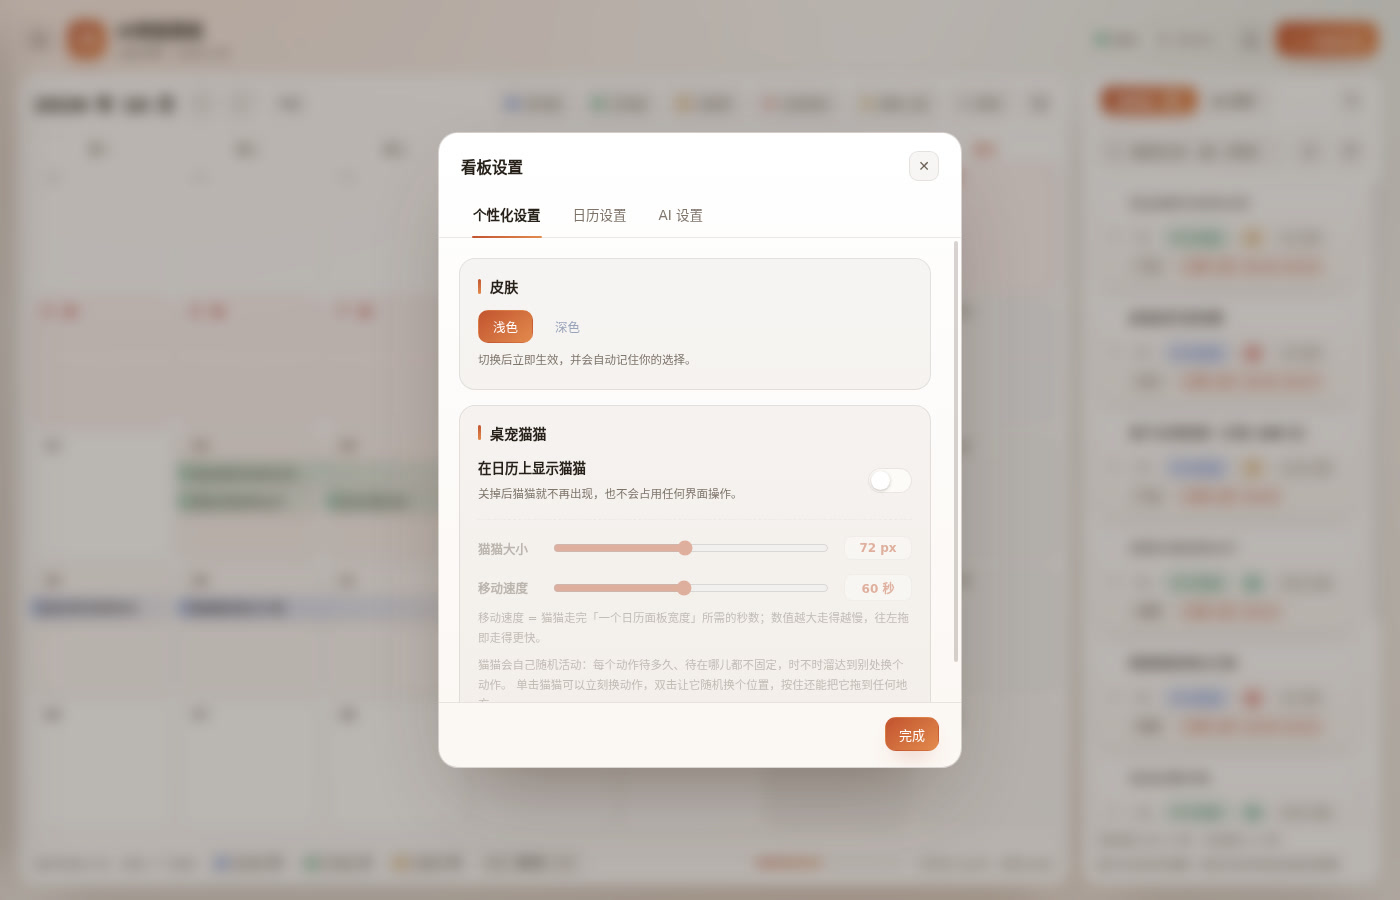
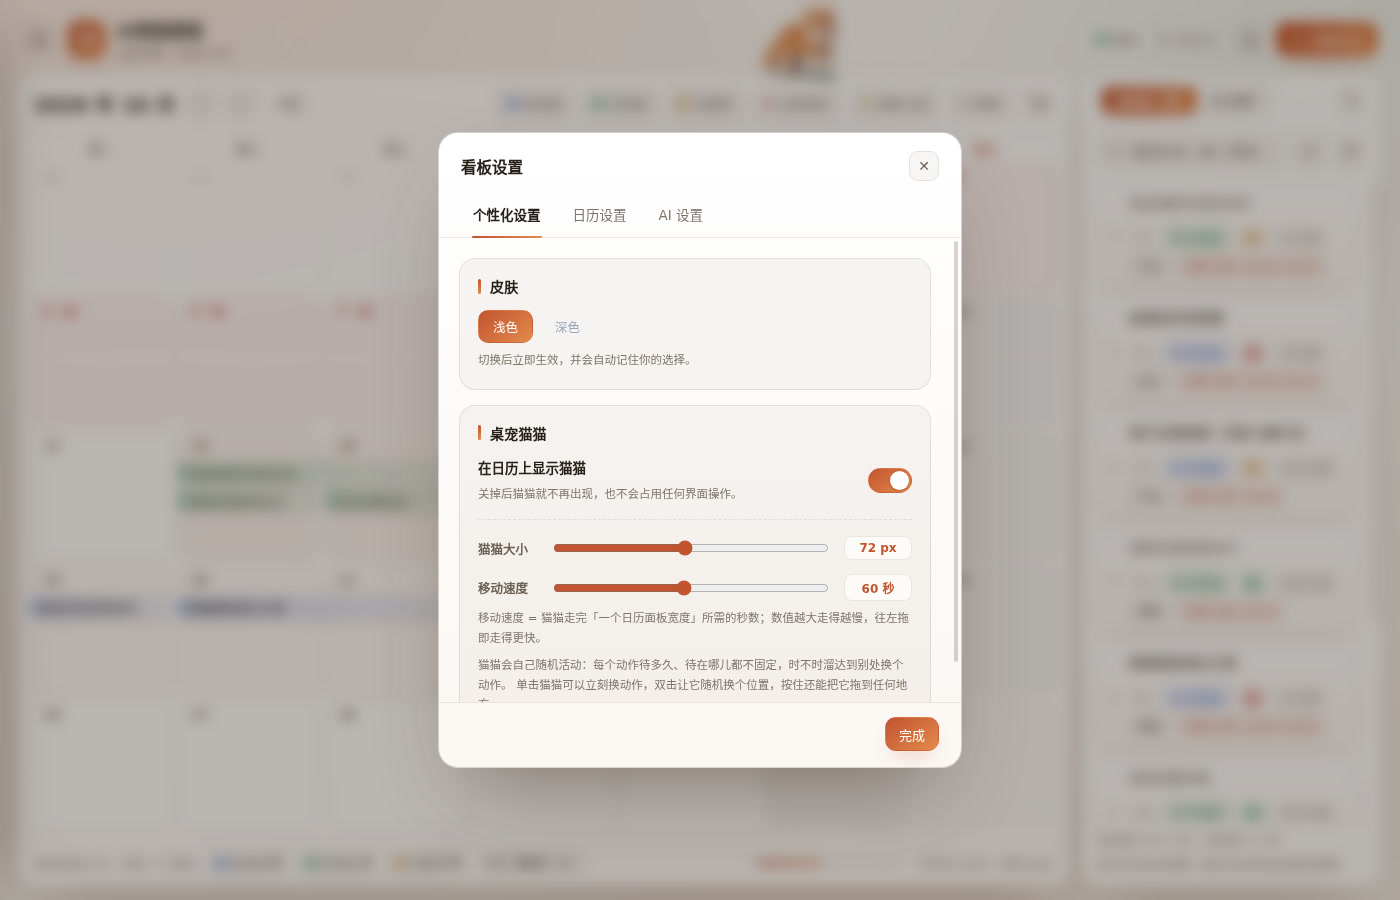
feat(landing): 首页猫只走路不换动作；界面展示改为标签页切换；重截含猫猫的截图
- hero 猫简化为持续走动（不再 idle/walk 切换）
- 4 张界面展示改为标签页切换（一次只显示一张，页面不再很长）
- 4 张截图重截：开着猫猫（站在日历上沿可见）

diff --git a/app/login.html b/app/login.html
@@ -57,13 +57,17 @@
   .cta{margin-top:26px;display:flex;gap:12px;justify-content:center;flex-wrap:wrap}
   .cta .btn{height:46px;padding:0 26px;font-size:15px}
 
-  /* 界面展示 */
-  .shots{margin:54px auto 8px;max-width:940px;display:flex;flex-direction:column;gap:54px}
-  .shot{text-align:center}
-  .shot .frame{border:1px solid var(--line-strong);border-radius:16px;overflow:hidden;background:#fff;box-shadow:0 34px 64px -36px rgba(60,40,24,.55)}
-  .shot .frame img{display:block;width:100%;height:auto}
-  .shot h3{margin:20px 0 7px;font-size:17.5px;font-weight:700}
-  .shot p{margin:0 auto;max-width:600px;font-size:14px;color:var(--text-dim);line-height:1.78}
+  /* 界面展示（标签页切换） */
+  .shots{margin:52px auto 8px;max-width:940px}
+  .shot-tabs{display:flex;gap:8px;justify-content:center;flex-wrap:wrap;margin-bottom:22px}
+  .shot-tabs button{border:1px solid var(--line-strong);background:rgba(255,255,255,.72);color:var(--text-dim);border-radius:999px;height:38px;padding:0 18px;font:600 13.5px/1 inherit;cursor:pointer;transition:.18s}
+  .shot-tabs button:hover{color:var(--text);transform:translateY(-1px)}
+  .shot-tabs button.on{color:#fff;background:linear-gradient(140deg,var(--brand-1),var(--brand-2));border-color:transparent;box-shadow:0 12px 22px -14px var(--brand-1)}
+  .shot-panel{text-align:center}
+  .shot-panel .frame{border:1px solid var(--line-strong);border-radius:16px;overflow:hidden;background:#fff;box-shadow:0 34px 64px -36px rgba(60,40,24,.55)}
+  .shot-panel .frame img{display:block;width:100%;height:auto}
+  .shot-panel h3{margin:20px 0 7px;font-size:17.5px;font-weight:700}
+  .shot-panel p{margin:0 auto;max-width:620px;font-size:14px;color:var(--text-dim);line-height:1.78}
 
   /* 登录弹窗 */
   .backdrop{position:fixed;inset:0;z-index:50;display:none;place-items:center;padding:20px;background:rgba(40,28,18,.34);backdrop-filter:blur(7px);animation:fade .18s both}
@@ -123,29 +127,20 @@
         <button class="btn primary" id="openLogin">登录看板 →</button>
       </div>
       <div class="catline"></div>
-      <div class="hero-cat" id="heroCat"><div class="fl"><img id="catImg" alt="桌宠猫猫" src="assets/cat/cat-idle.webp"></div></div>
+      <div class="hero-cat" id="heroCat"><div class="fl"><img id="catImg" alt="桌宠猫猫" src="assets/cat/cat-walk.webp"></div></div>
     </section>
 
     <section class="shots">
-      <div class="shot">
-        <div class="frame"><img src="assets/shots/board-main.jpg" alt="任务池与日历排期"></div>
-        <h3>任务池 + 日历排期</h3>
-        <p>左边月历、右边任务池。把任务拖到日历上，按「预估人天」自动占天数；法定节假日、周末自动标注，还能按工作日排期。</p>
+      <div class="shot-tabs" id="shotTabs">
+        <button type="button" data-shot="0" class="on">任务池 + 日历</button>
+        <button type="button" data-shot="1">AI 助手</button>
+        <button type="button" data-shot="2">任务详情</button>
+        <button type="button" data-shot="3">看板设置 &amp; 猫猫</button>
       </div>
-      <div class="shot">
-        <div class="frame"><img src="assets/shots/ai-assistant.jpg" alt="AI 助手" loading="lazy"></div>
-        <h3>AI 助手，能读也能改</h3>
-        <p>基于你的台账总结、分析；也能直接帮你建、改、删任务——每一步都会先弹确认卡片，改前改后一目了然。</p>
-      </div>
-      <div class="shot">
-        <div class="frame"><img src="assets/shots/task-modal.jpg" alt="任务详情" loading="lazy"></div>
-        <h3>任务详情</h3>
-        <p>状态、优先级、标签、预估人天、多段排期一次搞定；团队看板还带「负责人」与操作历史。</p>
-      </div>
-      <div class="shot">
-        <div class="frame"><img src="assets/shots/settings.jpg" alt="看板设置与桌宠猫猫" loading="lazy"></div>
-        <h3>看板设置 &amp; 桌宠猫猫</h3>
-        <p>深/浅皮肤、日历设置、AI 设置集中在一处；日历上还有一只会溜达的桌宠猫猫。</p>
+      <div class="shot-panel">
+        <div class="frame"><img id="shotImg" src="assets/shots/board-main.jpg" alt=""></div>
+        <h3 id="shotTitle"></h3>
+        <p id="shotDesc"></p>
       </div>
     </section>
 
@@ -212,38 +207,52 @@
     btn.textContent = '进入看板'; btn.disabled = false;
   });
 
-  /* ---------- 桌宠猫猫（落地页亮点）：沿 hero 底部走来走去 ---------- */
+  /* ---------- 桌宠猫猫（落地页亮点）：只在 hero 底部走来走去 ---------- */
   (function () {
     var el = document.getElementById('heroCat');
     if (!el) return;
     var hero = el.parentElement;
-    var img = document.getElementById('catImg');
-    var DIR = 'assets/cat/';
-    var W = 72, x = 0, dir = 1, state = 'walk', t = 0;
+    var W = 72, x = 0, dir = 1;
     var reduce = window.matchMedia && window.matchMedia('(prefers-reduced-motion: reduce)').matches;
     function maxX() { return Math.max(0, hero.clientWidth - W - 8); }
-    function setFile(f) { if (img.getAttribute('src') !== DIR + f) img.setAttribute('src', DIR + f); }
     function face(d) { el.classList.toggle('flip', d < 0); }
     function step() {
       var r = maxX();
-      if (state === 'walk') {
-        x += dir * 0.85;
-        if (x <= 0) { x = 0; dir = 1; face(1); }
-        else if (x >= r) { x = r; dir = -1; face(-1); }
-        if (++t > 260 + Math.random() * 220) { state = 'idle'; t = 0; setFile('cat-idle.webp'); }
-      } else {
-        if (++t > 150 + Math.random() * 200) { state = 'walk'; t = 0; setFile('cat-walk.webp'); }
-      }
+      x += dir * 0.85;
+      if (x <= 0) { x = 0; dir = 1; face(1); }
+      else if (x >= r) { x = r; dir = -1; face(-1); }
       el.style.transform = 'translateX(' + x + 'px)';
       requestAnimationFrame(step);
     }
     x = Math.round(maxX() * 0.16);
     el.style.transform = 'translateX(' + x + 'px)';
-    if (reduce) { face(1); return; }
-    setFile('cat-walk.webp');
     face(1);
+    if (reduce) return;
     requestAnimationFrame(step);
     window.addEventListener('resize', function () { if (x > maxX()) { x = maxX(); el.style.transform = 'translateX(' + x + 'px)'; } });
+  })();
+
+  /* ---------- 界面展示：标签页切换 ---------- */
+  (function () {
+    var DATA = [
+      { img: 'assets/shots/board-main.jpg', t: '任务池 + 日历排期', d: '左边月历、右边任务池。把任务拖到日历上，按「预估人天」自动占天数；法定节假日、周末自动标注，还能按工作日排期。' },
+      { img: 'assets/shots/ai-assistant.jpg', t: 'AI 助手，能读也能改', d: '基于你的台账总结、分析；也能直接帮你建、改、删任务——每一步都会先弹确认卡片，改前改后一目了然。' },
+      { img: 'assets/shots/task-modal.jpg', t: '任务详情', d: '状态、优先级、标签、预估人天、多段排期一次搞定；团队看板还带「负责人」与操作历史。' },
+      { img: 'assets/shots/settings.jpg', t: '看板设置 & 桌宠猫猫', d: '深 / 浅皮肤、日历设置、AI 设置集中在一处；日历上还有一只会溜达的桌宠猫猫。' }
+    ];
+    var tabs = document.getElementById('shotTabs');
+    if (!tabs) return;
+    var img = document.getElementById('shotImg'), h = document.getElementById('shotTitle'), p = document.getElementById('shotDesc');
+    function show(i) {
+      var o = DATA[i]; if (!o) return;
+      img.src = o.img; h.textContent = o.t; p.textContent = o.d;
+      Array.prototype.forEach.call(tabs.querySelectorAll('button'), function (b, k) { b.classList.toggle('on', k === i); });
+    }
+    tabs.addEventListener('click', function (e) {
+      var b = e.target.closest ? e.target.closest('button[data-shot]') : null;
+      if (b) show(+b.getAttribute('data-shot'));
+    });
+    show(0);
   })();
 </script>
 </body>
